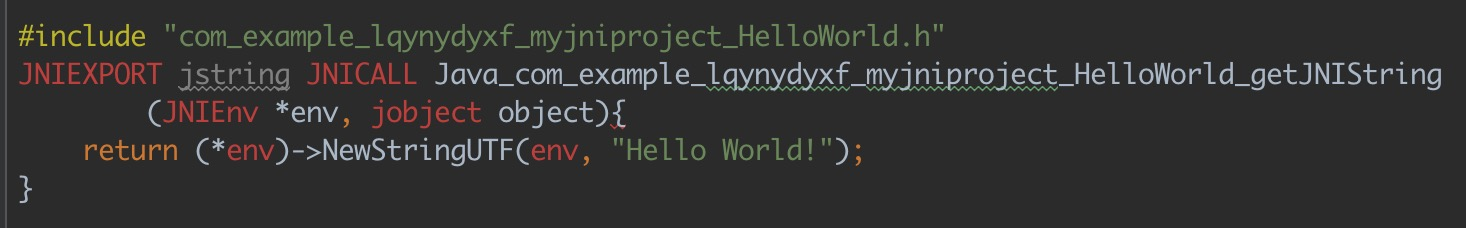
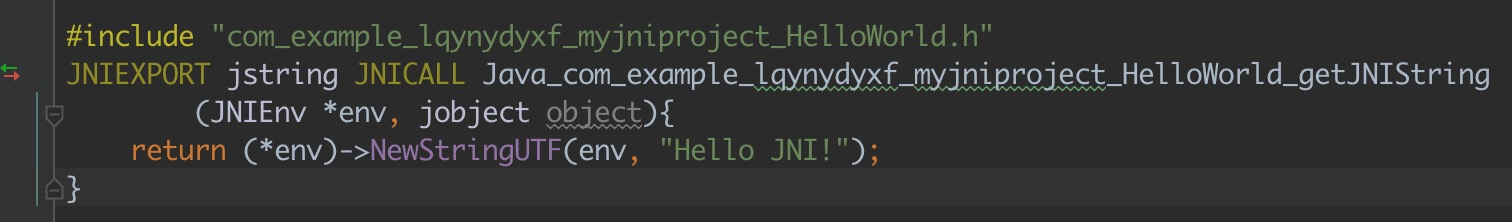
Site updated: 2015-12-24 09:44:57

diff --git a/2015/12/23/Android Studio下的JNI开发/index.html b/2015/12/23/Android Studio下的JNI开发/index.html
@@ -193,7 +193,7 @@
 <p><img src="/img/19.png" alt=""></p>
 <h3 id="4-_生成-c文件">4. 生成.c文件</h3><p>进入到src目录下，新建一个名为jni的文件夹（New-&gt;Directory），然后把之前生成的.h文件剪切过来，放到jni目录下，同时在jni目录下新建一个.c文件，可随意命名，但是这里为了整齐，我将.c文件的文件名写的和.h文件一样。.c文件的内容是对.h文件中声明的方法进行具体实现。.c文件的内容如下所示：</p>
 <p><img src="/img/11.png" alt=""></p>
-<figure class="highlight c"><table><tr><td class="gutter"><pre><span class="line">1</span><br><span class="line">2</span><br><span class="line">3</span><br><span class="line">4</span><br><span class="line">5</span><br></pre></td><td class="code"><pre><span class="line"><span class="preprocessor">#<span class="keyword">include</span> "com_example_lqynydyxf_myjniproject_HelloWorld.h"</span></span><br><span class="line"><span class="function">JNIEXPORT jstring JNICALL <span class="title">Java_com_example_lqynydyxf_myjniproject_HelloWorld_getJNIString</span></span><br><span class="line">        <span class="params">(JNIEnv *env, jobject object)</span></span>&#123;</span><br><span class="line">    <span class="keyword">return</span> (*env)-&gt;NewStringUTF(env, <span class="string">"Hello World!"</span>);</span><br><span class="line">&#125;</span><br></pre></td></tr></table></figure>
+<figure class="highlight c"><table><tr><td class="gutter"><pre><span class="line">1</span><br><span class="line">2</span><br><span class="line">3</span><br><span class="line">4</span><br><span class="line">5</span><br></pre></td><td class="code"><pre><span class="line"><span class="preprocessor">#<span class="keyword">include</span> "com_example_lqynydyxf_myjniproject_HelloWorld.h"</span></span><br><span class="line"><span class="function">JNIEXPORT jstring JNICALL <span class="title">Java_com_example_lqynydyxf_myjniproject_HelloWorld_getJNIString</span></span><br><span class="line">        <span class="params">(JNIEnv *env, jobject object)</span></span>&#123;</span><br><span class="line">    <span class="keyword">return</span> (*env)-&gt;NewStringUTF(env, <span class="string">"Hello JNI!"</span>);</span><br><span class="line">&#125;</span><br></pre></td></tr></table></figure>
 <p>这里，我们直接返回了一个 <strong><em>Hello World!</em></strong> 字符串。</p>
 <h3 id="5-_生成Android-mk文件">5. 生成Android.mk文件</h3><p>此时，在jni目录下，我们已经拥有了一个.h和.c文件，然后我们需要再新建一个<strong>Android.mk</strong>文件，然后添加如下内容：</p>
 <figure class="highlight"><table><tr><td class="gutter"><pre><span class="line">1</span><br></pre></td><td class="code"><pre><span class="line">LOCAL_PATH := $(call my-dir)&#10;include $(CLEAR_VARS)&#10;LOCAL_MODULE := helloworld&#10;LOCAL_SRC_FILES := com_example_lqynydyxf_myjniproject_HelloWorld.c&#10;include $(BUILD_SHARED_LIBRARY)</span><br></pre></td></tr></table></figure>

diff --git a/css/main.css b/css/main.css
@@ -1171,7 +1171,7 @@ input.menu-search-input {
   width: 4px;
   height: 4px;
   border-radius: 50%;
-  background: #8b227d;
+  background: #2bc98b;
 }
 .sidebar-nav {
   margin: 0;
